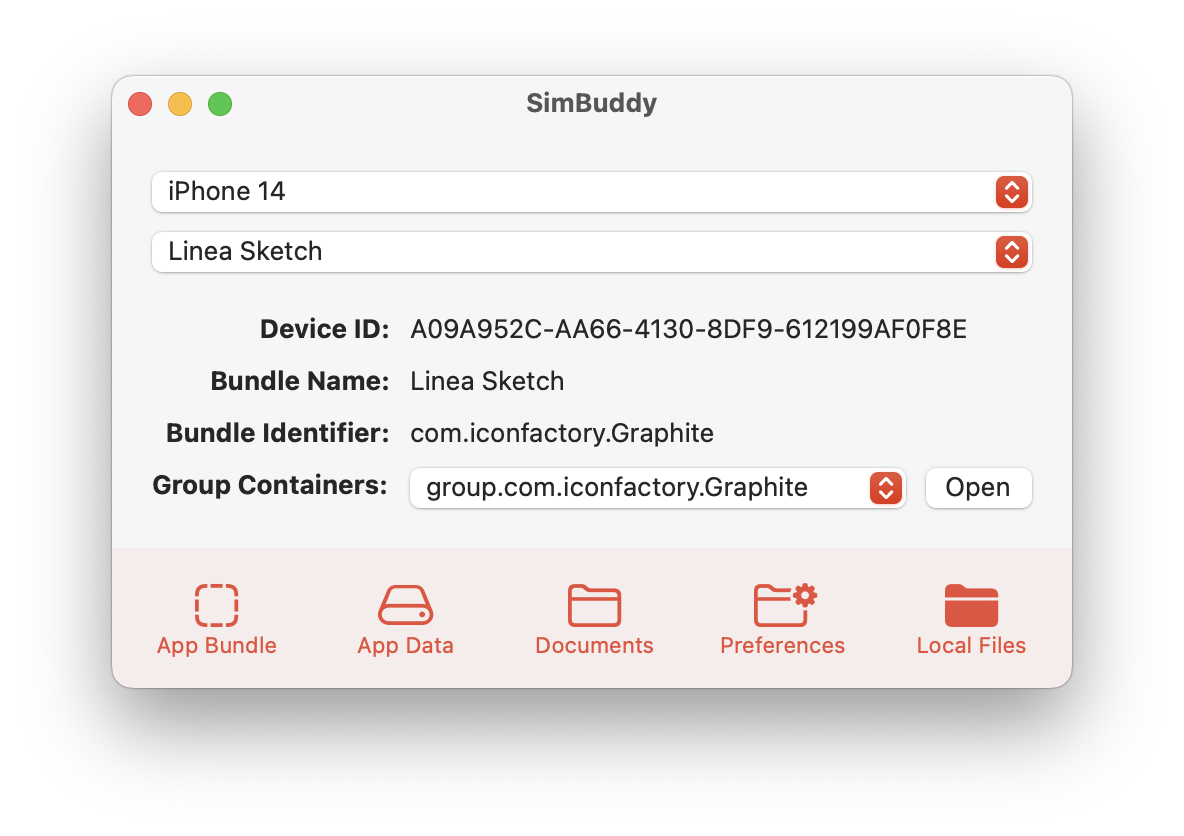
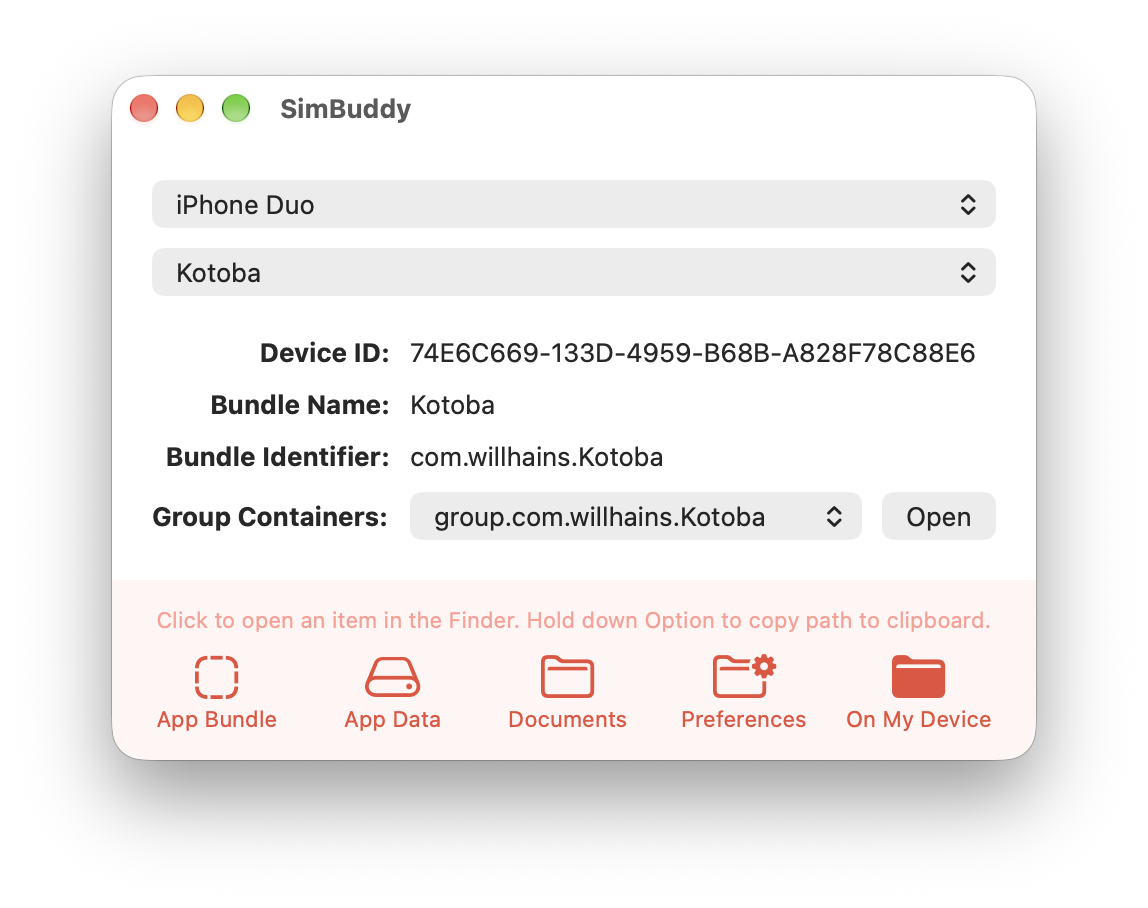
Updated README.

diff --git a/README.md b/README.md
@@ -15,7 +15,7 @@ The locations show above, and many others, are available from Xcode using the `x
 
 There are other tools available to help you navigate the _Simulator_, but they all do much more than I really need and take up space in my menu bar even though they are used infrequently. Additionally, none of these tools help find the "On My iPhone/iPad" container used by the Files app: a folder that I use whenever I’m testing import and export code.
 
-By now, you probably know where this is going: yes, I wrote my own utility and call it _SimBuddy_. It’s a [FREE download](https://files.iconfactory.net/software/SimBuddy.zip) from the [Iconfactory](https://iconfactory.com).
+By now, you probably know where this is going: yes, I wrote my own utility and call it _SimBuddy_. It’s a [FREE download](https://files.iconfactory.net/software/SimBuddy-2.0.zip) from the [Iconfactory](https://iconfactory.com).
 
 ![Screenshot of SimBuddy window](./Screenshot.png)
 
@@ -25,4 +25,4 @@ If the _Terminal_ is more your thing, you can hold down the option key while cli
 
 It’s not a complicated app, as you can see from the [source code](https://github.com/chockenberry/SimBuddy), but it’s one that I’m very happy to have in my developer toolbox now. I hope you enjoy it, too!
 
-P.S. I love putting Easter eggs in apps. This time it’s in the app [icon](https://github.com/chockenberry/SimBuddy/blob/main/SimBuddy/Assets.xcassets/AppIcon.appiconset/AppIcon512x512%402x.png).
+P.S. I love putting Easter eggs in apps. This time it’s in the app [icon](https://github.com/chockenberry/SimBuddy/blob/main/SimBuddy/Screenshot-Icon.png).
